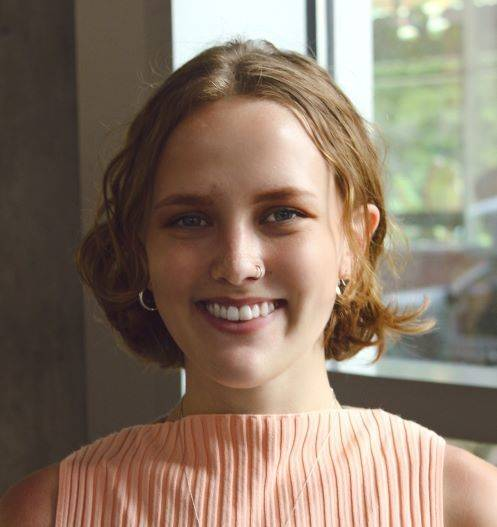
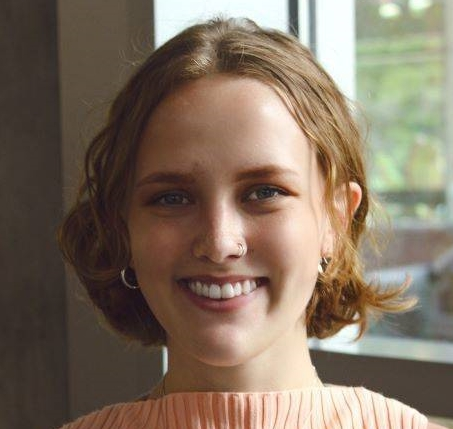
images edited and fit to boxes

diff --git a/styles/flipBoxStyle.css b/styles/flipBoxStyle.css
@@ -8,10 +8,7 @@ to have boxes that spin on desktop view but can be clicked on a smaller viewport
     max-width: 10%;
     position: static;
   }
-  /*paragraph for smaller viewports telling user to click to read*/
-  .clickP{
-    display: none;
-  }
+  
   /*expand icon*/
   .expand{
     display: none;
@@ -46,6 +43,7 @@ to have boxes that spin on desktop view but can be clicked on a smaller viewport
   .flip-box-front {
     background-color: transparent;
     color: black;
+    max-width: 80%;
   }
   /*this is only the back*/ 
   .flip-box-back {
@@ -67,12 +65,12 @@ to have boxes that spin on desktop view but can be clicked on a smaller viewport
     max-width: 30%;
     perspective: 1000px;
     margin-inline-start: 13%;
-    margin-top: 2%;
+    margin-top: 5%;
   }
   /*spin code*/
   .flip-box:hover .flip-box-inner {
     transform: rotateY(180deg);
-    padding-bottom: 90%;
+    margin-bottom: 105%;
   }
   
   .flip-box2 {
@@ -86,7 +84,7 @@ to have boxes that spin on desktop view but can be clicked on a smaller viewport
   
   .flip-box2:hover .flip-box-inner {
     transform: rotateY(180deg);
-    padding-bottom: 80%;
+    padding-bottom: 105%;
   }
   
   .flip-box3 {
@@ -100,7 +98,7 @@ to have boxes that spin on desktop view but can be clicked on a smaller viewport
   
   .flip-box3:hover .flip-box-inner {
     transform: rotateY(180deg);
-    padding-bottom: 65%;
+    padding-bottom: 90%;
   }
   
   .flip-box4 {
@@ -109,7 +107,7 @@ to have boxes that spin on desktop view but can be clicked on a smaller viewport
       perspective: 1000px;
       margin-inline-start: 60%;
       padding-bottom: 30%;
-      margin-top: -2%;
+      margin-top: -4%;
   }
   
   .flip-box4:hover .flip-box-inner {
@@ -125,6 +123,7 @@ to have boxes that spin on desktop view but can be clicked on a smaller viewport
   
   .flip-box5:hover .flip-box-inner {
     transform: rotateY(180deg);
+    margin-bottom: 10%;
   }
 }
   /*end of flip arounds*/
@@ -151,10 +150,7 @@ to have boxes that spin on desktop view but can be clicked on a smaller viewport
       border: none;
       cursor: pointer;
     }
-    /*paragraph telling user to hover for bios*/
-    .hoverP{
-      display: none;
-    }
+   
     /*arrow expand and button end*/
   
     .flipImageFront{

diff --git a/index.html b/index.html
@@ -68,14 +68,6 @@
         <main> 
           
         <h1>MEET THE TEAM</h1>
-        <!--we can decide on this later 20/04 Gabi-->
-        <p class="hoverP">
-            Hover over our images to read more about us
-        </p>
-
-        <p class="clickP">
-            Click the expand icon to read more about us
-        </p>
          <!--hover flip boxes 20/04 Gabi-->       
         
         <div  class="flip-box">
@@ -102,7 +94,7 @@
         <div class="flip-box2">
             <div class="flip-box-inner">
                 <div class="flip-box-front">
-                    <img class="flipImageFront" src="images/giulia.jpg" alt="Giulia photo"  >
+                    <img class="flipImageFront" src="images/GiuliaPhoto1.jpeg" alt="Giulia photo"  >
                     <img class="spinArrow" src="images/spinArrow.png" alt="Turn arrow symbol">
                 </div>
                 <button type="button" class="collapsible">
@@ -125,7 +117,7 @@
         <div class="flip-box3">
             <div class="flip-box-inner">
                 <div class="flip-box-front">
-                    <img class="flipImageFront" src="images/morgan.jpg" alt="Teryn photo"  >
+                    <img class="flipImageFront" src="images/TerynPhoto.jpg" alt="Teryn photo"  >
                     <img class="spinArrow" src="images/spinArrow.png" alt="Turn arrow symbol">
                 </div>
                 <button type="button" class="collapsible">
@@ -170,7 +162,7 @@
         <div class="flip-box5">
             <div class="flip-box-inner">
                 <div class="flip-box-front">
-                     <img class="flipImageFront" src="images/Gabrielle.jpg" alt="Gabirielle photo"  >
+                     <img class="flipImageFront" src="images/GabriellePhoto.jpg" alt="Gabirielle photo"  >
                     <img class="spinArrow" src="images/spinArrow.png" alt="Turn arrow symbol">
                  </div>
 
